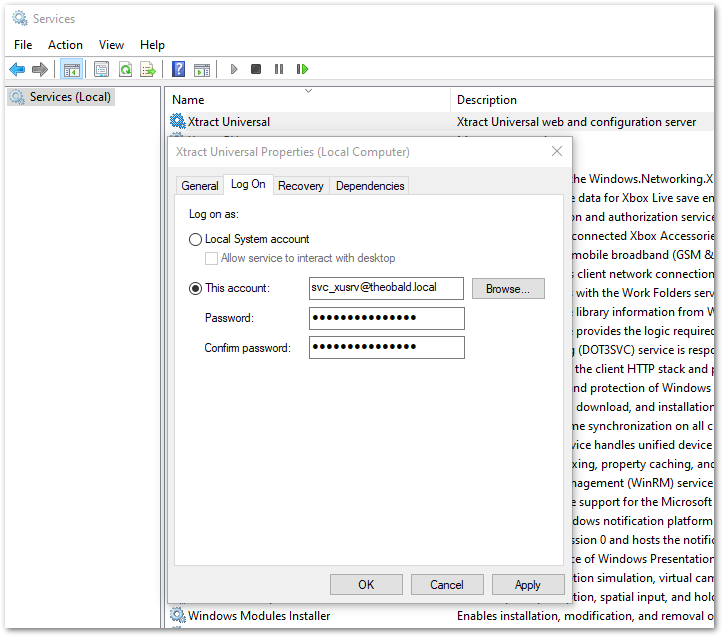
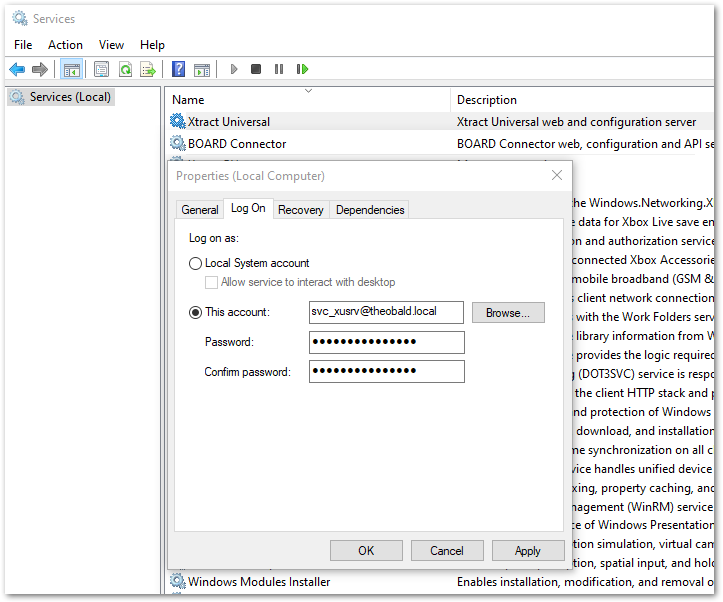
bc enabled + screenshots

Changed region(s): [[0.0, 0.0299, 1.0, 0.9867], [0.2434, 0.3289, 0.7607, 0.6279]]

diff --git a/_includes/_content/de/xu-specific/fortgeschrittene-techniken/service-account.md b/_includes/_content/de/xu-specific/fortgeschrittene-techniken/service-account.md
@@ -1,43 +1,43 @@
 ### Über diese Seite
-Nach der Installation von Xtract Universal, wird der Xtract Universal Service unter dem lokalen System-Account (Local System) ausgeführt.
+Nach der Installation von {% if page.product == "xtract-universal" %}Xtract Universal{% else %}Board Connector{% endif %}, wird der {% if page.product == "xtract-universal" %}Xtract Universal{% else %}Board Connector{% endif %} Service unter dem lokalen System-Account (Local System) ausgeführt.
 In den folgenden Szenarien muss der Service stattdessen unter einem Windows Service-Account ausgeführt werden:
 
-- [Kerberos Authentifizierung](../sicherheit/serversicherheit#zugriffsbeschränkung-auf-windows-ad-benutzer-kerberos-authentifizierung) für den Xtract Universal Webserver verwenden.
-- Windows Authentizizierung für eine Xtract Universal Destination verwenden, die Windows-Anmeldedaten erlauben (z.B. SQL Server Destination, PostgreSQL Destination).
+- [Kerberos Authentifizierung](../sicherheit/serversicherheit#zugriffsbeschränkung-auf-windows-ad-benutzer-kerberos-authentifizierung) für den {% if page.product == "xtract-universal" %}Xtract Universal{% else %}Board Connector{% endif %} Webserver verwenden.
+- Windows Authentizizierung für eine {% if page.product == "xtract-universal" %}Xtract Universal{% else %}Board Connector{% endif %} Destination verwenden, die Windows-Anmeldedaten erlauben (z.B. SQL Server Destination, PostgreSQL Destination).
 - [SSO mit Kerberos SNC](https://kb.theobald-software.com/xtract-universal/sso-with-kerberos-snc) verwenden.
 - [SSO mit SAP Logon Tickets](https://kb.theobald-software.com/xtract-universal/sso-with-logon-ticket).
 
 Dieser Abschnitt enthält Informationen darüber, wie man den Xtract Universal Service unter einem Service-Account ausführt.
 
 {: .box-note }
-**Hinweis:** Ab Xtract Universal Version 5.0 werden SAP Passwörter anhand eines Schlüssels verschlüsselt, der von dem Windows Service-Account abgeleitet wird, unter dem der Xtract Universal Service läuft.
+**Hinweis:** Ab {% if page.product == "xtract-universal" %}Xtract Universal{% else %}Board Connector{% endif %} Version 5.0 werden SAP Passwörter anhand eines Schlüssels verschlüsselt, der von dem Windows Service-Account abgeleitet wird, unter dem der {% if page.product == "xtract-universal" %}Xtract Universal{% else %}Board Connector{% endif %} Service läuft.
 Auf die Passwörter kann man nur von diesem Service-Account aus zugreifen. Achten Sie darauf, wenn Sie Backups aufspielen oder Dateien auf eine andere Maschine verschieben.
 Wenn Sie das Service-Account wechseln, müssen Sie Passwörter manuell neu eingeben.
 
 ### Allgemeine Einstellungen
 
-1. Erstellen Sie ein Windows AD Service-Account und weisen Sie ihm eine SPN (Service Principal Name) im folgenden Format zu: ```HTTP/[FQDN of XU Server]```.<br>
+1. Erstellen Sie ein Windows AD Service-Account und weisen Sie ihm eine SPN (Service Principal Name) im folgenden Format zu: ```HTTP/[FQDN of {% if page.product == "xtract-universal" %}XU{% else %}BC{% endif %} Server]```.<br>
 Mit dem ```setspn``` Befehl können die SPNs eines Service-Accounts eingesehen werden.
 ![xu service account](/img/content/xu/xu-service-account-SPN.png){:class="img-responsive"}
 
-2. Gewähren Sie Zugriffsrechte auf Xtract Universal's Installationsordner und allen Unterordnern des Service-Accounts wie in folgendem Screenshot:
+2. Gewähren Sie Zugriffsrechte auf {% if page.product == "xtract-universal" %}Xtract Universal{% else %}Board Connector{% endif %}'s Installationsordner und allen Unterordnern des Service-Accounts wie in folgendem Screenshot:
 ![xu service account permissions](/img/content/xu/xu-service-account-permissions.png){:class="img-responsive"}
 
 3. Falls anwendbar, stellen Sie sicher, dass das Service-Account Lese-Zugriff auf den privaten Schlüssel des [X.509 Zertifikats](../sicherheit/x.509-zertifikat-installieren) hat.
 ![xu service account private key 1](/img/content/xu/xu-service-account-privatekey_1.png){:class="img-responsive"}
 ![xu service account private key 2](/img/content/xu/xu-service-account-privatekey_2.png){:class="img-responsive"}
 
-4. Führen Sie den Xtract Universal Service unter dem Service-Account aus. Stellen Sie sicher, dass die korrekte Domäne verwendet wird (z.B. *.Firma.local* anstatt *.Firma.com*).
+4. Führen Sie den {% if page.product == "xtract-universal" %}Xtract Universal{% else %}Board Connector{% endif %} Service unter dem Service-Account aus. Stellen Sie sicher, dass die korrekte Domäne verwendet wird (z.B. *.Firma.local* anstatt *.Firma.com*).
 ![xu service account services](/img/content/xu/xu-service-account-services.png){:class="img-responsive"}
 
-5. Im Startfenster "Connect to Xtract Universal Server" vom Xtract Universal Designer wählen Sie *Windows credentials* oder *Custom Credentials (Kerberos authentication)* als *Authentication* aus. Geben Sie den UPN (User Principal Name) des Service-Accounts als *Target Principal* wie im Knowledge Base Artikel ["How to use target principal field"](https://kb.theobald-software.com/xtract-universal/target-principal-TPN) beschrieben ein.<br>
-![xu service account login](/img/content/xu/xu-service-account-login.png){:class="img-responsive"}
+5. Im Startfenster "Connect to {% if page.product == "xtract-universal" %}Xtract Universal{% else %}Board Connector{% endif %} Server" vom {% if page.product == "xtract-universal" %}Xtract Universal{% else %}Board Connector{% endif %} Designer wählen Sie *Windows credentials* oder *Custom Credentials (Kerberos authentication)* als *Authentication* aus. Geben Sie den UPN (User Principal Name) des Service-Accounts als *Target Principal* wie im Knowledge Base Artikel ["How to use target principal field"](https://kb.theobald-software.com/xtract-universal/target-principal-TPN) beschrieben ein.<br>
+{% if page.product == "xtract-universal" %}![xu service account login](/img/content/xu/xu-service-account-login.png){:class="img-responsive"}{% else %}![bc service account login](/img/content/bc-service-account-login.png){:class="img-responsive"}{% endif %}
 
 ### Einstellungen für SSO mit Kerberos SNC
 
 Wenn Sie [SSO mit Kerberos SNC](https://kb.theobald-software.com/xtract-universal/sso-with-kerberos-snc) verwenden, sind zusätzliche Schritte nötig:<br>
 
-1. Konfigurieren Sie für den Windows Service-Account, unter dem der Xtract Universal Service ausgeführt wird, eine eingeschränkte Delegierung.
+1. Konfigurieren Sie für den Windows Service-Account, unter dem der {% if page.product == "xtract-universal" %}Xtract Universal{% else %}Board Connector{% endif %} Service ausgeführt wird, eine eingeschränkte Delegierung.
 ![xu_service_account_constr_deleg](/img/content/XU_SSO_WinAD_Delegation.png){:class="img-responsive"}
 2. Geben Sie den SPN, unter dem der SAP ABAP Server ausgeführt wird (SAP Service Account), z.B. SAPServiceERP/do_not_care.
 Weitere Informationen über die Notation des Partnernamen in SAP finden Sie im [SAP Help Portal](https://help.sap.com/viewer/e815bb97839a4d83be6c4fca48ee5777/7.5.9/de-DE/440ebb40b9920d1be10000000a114a6b.html).

diff --git a/_includes/_content/en/xu-specific/advanced-techniques/xu-service-account.md b/_includes/_content/en/xu-specific/advanced-techniques/xu-service-account.md
@@ -1,45 +1,45 @@
 ### About
-After installation of Xtract Universal, the Xtract Universal service runs under the *Local System* account.
+
+After installation of Xtract Universal, the {% if page.product == "xtract-universal" %}Xtract Universal{% else %}Board Connector{% endif %} service runs under the *Local System* account.
 
 In the following scenarios the service must run under a dedicated Windows domain user account instead of the *Local System* account:
 
-- Enabling [Kerberos authentication](../security/server-security#restrict-access-to-windows-ad-users-kerberos-authentication) for the Xtract Universal web server.
-- Enabling Windows authentication for an Xtract Universal destination that allows Windows credentials for log on (e.g., SQL Server destination, PostgreSQL destination).
+- Enabling [Kerberos authentication](../security/server-security#restrict-access-to-windows-ad-users-kerberos-authentication) for the {% if page.product == "xtract-universal" %}Xtract Universal{% else %}Board Connector{% endif %} web server.
+- Enabling Windows authentication for a{% if page.product == "xtract-universal" %}n Xtract Universal{% else %} Board Connector{% endif %} destination that allows Windows credentials for log on (e.g., SQL Server destination, PostgreSQL destination).
 - [Enabling SSO with Kerberos SNC](https://kb.theobald-software.com/xtract-universal/sso-with-kerberos-snc).
 - [Enabling SSO with SAP Logon Tickets](https://kb.theobald-software.com/xtract-universal/sso-with-logon-ticket).
 
-This section describes how to run the Xtract Universal service under a service account.
+This section describes how to run the {% if page.product == "xtract-universal" %}Xtract Universal{% else %}Board Connector{% endif %} service under a service account.
 
 {: .box-note }
-**Note:** As of Xtract Universal version 5.0 SAP passwords are encrypted with a key that is derived from the Windows account that runs the XU service.
+**Note:** As of {% if page.product == "xtract-universal" %}Xtract Universal{% else %}Board Connector{% endif %} version 5.0 SAP passwords are encrypted with a key that is derived from the Windows account that runs the {% if page.product == "xtract-universal" %}XU{% else %}BC{% endif %} service.
 The passwords can only be accessed from the same service account, when restoring a backup or moving the files to a different machine. 
 If the service account changes, passwords need to be re-entered manually.
 
 ### Basic settings
 
-1. Create a Windows AD service account and assign an SPN (Service Principle Name) to the service account in the following format: ```HTTP/[FQDN of XU Server]```.
+1. Create a Windows AD service account and assign an SPN (Service Principle Name) to the service account in the following format: ```HTTP/[FQDN of {% if page.product == "xtract-universal" %}XU{% else %}BC{% endif %} Server]```.
 Using the ```setspn``` command the SPNs of a user account can be checked.
 ![xu service account](/img/content/xu/xu-service-account-SPN.png){:class="img-responsive"}
 
-2. Grant access rights on Xtract Universal's installation folder and all sub folders to the service account as shown in the following screenshot:
+2. Grant access rights on {% if page.product == "xtract-universal" %}Xtract Universal{% else %}Board Connector{% endif %}'s installation folder and all sub folders to the service account as shown in the following screenshot:
 ![xu service account permissions](/img/content/xu/xu-service-account-permissions.png){:class="img-responsive"}
 
-3. If applicable, make sure the service account has *Read* access to the private key of the [X.509 certificate](../security/install-x.509-Certificate) used by Xtract Universal.
+3. If applicable, make sure the service account has *Read* access to the private key of the [X.509 certificate](../security/install-x.509-Certificate) used by {% if page.product == "xtract-universal" %}Xtract Universal{% else %}Board Connector{% endif %}.
 ![xu service account private key 1](/img/content/xu/xu-service-account-privatekey_1.png){:class="img-responsive"}
 ![xu service account private key 2](/img/content/xu/xu-service-account-privatekey_2.png){:class="img-responsive"}
 
-4. Let the Xtract Universal service run under the service account. Make sure the correct domain is used (e.g., *.company.local* instead of *.company.com*).
+4. Let the {% if page.product == "xtract-universal" %}Xtract Universal{% else %}Board Connector{% endif %} service run under the service account. Make sure the correct domain is used (e.g., *.company.local* instead of *.company.com*).
 ![xu service account services](/img/content/xu/xu-service-account-services.png){:class="img-responsive"}
 
-5. In the Xtract Universal Designer startup window "Connect to Xtract Universal Server", set *Windows credentials* or *Custom Credentials (Kerberos authentication)* as *Authentication*. Enter the User Principal Name (UPN) of the service account in the *Target Principal* field as described in the knowledge base article ["How to use target principal field"](https://kb.theobald-software.com/xtract-universal/target-principal-TPN).<br>
-![xu service account login](/img/content/xu/xu-service-account-login.png){:class="img-responsive"}
-
+5. In the {% if page.product == "xtract-universal" %}Xtract Universal{% else %}Board Connector{% endif %} Designer startup window "Connect to {% if page.product == "xtract-universal" %}Xtract Universal{% else %}Board Connector{% endif %} Server", set *Windows credentials* or *Custom Credentials (Kerberos authentication)* as *Authentication*. Enter the User Principal Name (UPN) of the service account in the *Target Principal* field as described in the knowledge base article ["How to use target principal field"](https://kb.theobald-software.com/xtract-universal/target-principal-TPN).<br>
+{% if page.product == "xtract-universal" %}![xu service account login](/img/content/xu/xu-service-account-login.png){:class="img-responsive"}{% else %}![bc service account login](/img/content/bc-service-account-login.png){:class="img-responsive"}{% endif %}
 
 ### Settings for SSO with Kerberos SNC
 
 When using [SSO with Kerberos SNC](https://kb.theobald-software.com/xtract-universal/sso-with-kerberos-snc) additional steps are necessary:<br>
 
-1. Set *constrained delegation* for the Windows domain account under which the Xtract Universal service runs.
+1. Set *constrained delegation* for the Windows domain account under which the {% if page.product == "xtract-universal" %}Xtract Universal{% else %}Board Connector{% endif %} service runs.
 ![xu_service_account_constr_deleg](/img/content/XU_SSO_WinAD_Delegation.png){:class="img-responsive"}
 2. Enter the SPN of the service account under which the SAP ABAP application server is running (SAP Service Account), e.g., SAPServiceERP/do_not_care.
 For more information about the partner name notation in SAP, see the [SAP Help portal](https://help.sap.com/viewer/e815bb97839a4d83be6c4fca48ee5777/7.5.9/en-US/440ebb40b9920d1be10000000a114a6b.html).

diff --git a/content/_de/board-connector/fortgeschrittene-techniken/service-account.md b/content/_de/board-connector/fortgeschrittene-techniken/service-account.md
@@ -1,0 +1,15 @@
+---
+ref: bc-advanced-techniques-20
+layout: page
+title: BC-Service-Account einrichten
+description: BC-Service unter Windows Service-Account ausführen
+product: board-connector
+parent: fortgeschrittene-techniken
+permalink: /:collection/:path
+weight: 20
+lang: de_DE
+old_url: none
+---
+
+
+{% include _content/de/xu-specific/fortgeschrittene-techniken/service-account.md %}

diff --git a/content/_en/board-connector/advanced-techniques/service-account.md b/content/_en/board-connector/advanced-techniques/service-account.md
@@ -1,0 +1,14 @@
+---
+ref: bc-advanced-techniques-20
+layout: page
+title: Setting Up a BC Service Account
+description: Running the BC-Service under a Windows Service Account
+product: board-connector
+parent: advanced-techniques
+permalink: /:collection/:path
+weight: 20
+lang: en_GB
+old_url: none
+---
+
+{% include _content/en/xu-specific/advanced-techniques/xu-service-account.md %}
